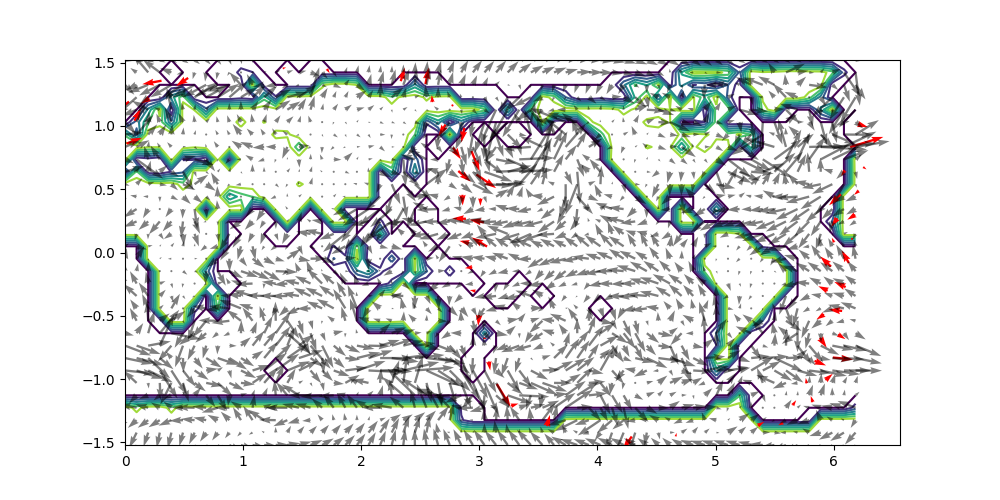
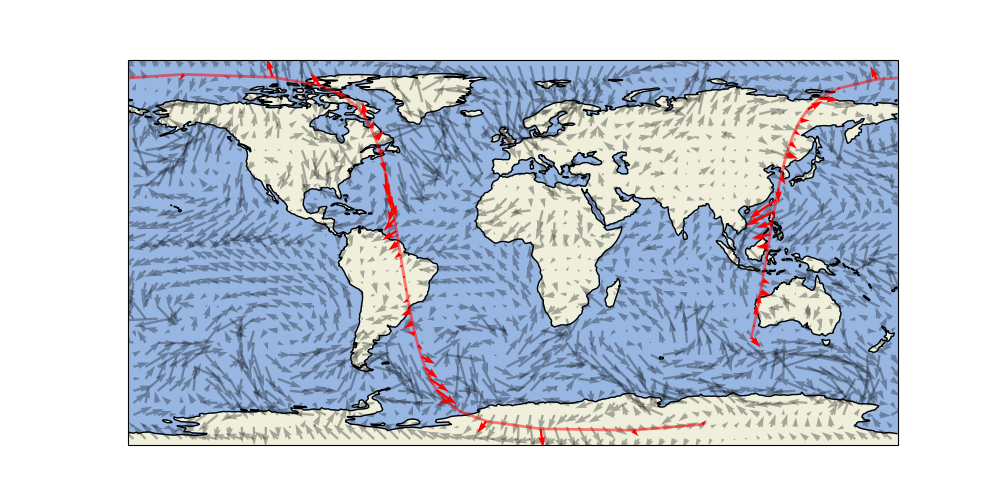
added era5

diff --git a/examples/wind_interpolation_euclidean_kernel.py b/examples/wind_interpolation_euclidean_kernel.py
@@ -1,5 +1,6 @@
 import xarray as xr
 import numpy as np
+from typing import List
 import jax
 import jax.numpy as jnp
 import jax.random as jr
@@ -15,6 +16,10 @@ from riemannianvectorgp.kernel.scaled import ScaledKernel
 from riemannianvectorgp.kernel.TFP import TFPKernel
 from skyfield.api import wgs84, load, EarthSatellite
 from scipy.interpolate import interp2d
+import cartopy
+import cartopy.crs as ccrs
+import xesmf as xe
+import copy
 
 class GlobalRNG:
     def __init__(self, seed: int = np.random.randint(2147483647)):
@@ -32,27 +37,37 @@ def _deg2rad(x: np.ndarray):
     return (np.pi/180)*x
 
 
+def _rad2deg(x: np.ndarray):
+    return (180/np.pi)*x
+
+
+def _jump_where(x):
+        for i in range(1,len(x)):
+            if np.abs(x[i-1] - x[i]) > 180:
+                return i
+
+
 def GetDataAlongSatelliteTrack(
     ds: xr.Dataset,
     satellite: EarthSatellite,
-    year: int = 2021,
-    month: int = 1,
-    day: int = 1,
-    hour: int = 0):
+    year: int,
+    month: int,
+    day: int,
+    hour: int) -> List[np.ndarray]:
     """
         Generate wind data along the trajectories of Aeolus (satellite)
         More information about the Aeolus satellite: https://www.n2yo.com/satellite/?s=43600 
     """
-    date = f'{year}-{month}-{day}'
-    lon = _deg2rad(ds.isel(time=0).longitude.values)
-    lat = _deg2rad(ds.isel(time=0).latitude.values)
+    date = f"{year}-{month}-{day}"
+    lon = _deg2rad(ds.isel(time=0).lon.values)
+    lat = _deg2rad(ds.isel(time=0).lat.values)
     u = ds.u100.sel(time=date).values
     v = ds.v100.sel(time=date).values
 
     time_span = ts.utc(year, month, day, hour, range(0, 60))
     geocentric = satellite.at(time_span)
     subpoint = wgs84.subpoint(geocentric)
-    lon_location = subpoint.longitude.radians + np.pi
+    lon_location = subpoint.longitude.radians
     lat_location = subpoint.latitude.radians
     u_interp = interp2d(lon, lat, u[hour], kind='linear')
     v_interp = interp2d(lon, lat, v[hour], kind='linear')
@@ -67,35 +82,54 @@ def GetDataAlongSatelliteTrack(
 
 
 if __name__ == '__main__':
+    rng = GlobalRNG()
+
+    year = 2019
+    month = 1
+    day = 1
+    hour = 0
+    min = 0
+    date = f"{year}-{month}-{day} {hour}:{min}"
+
     # Get Aeolus trajectory data from TLE set
     ts = load.timescale()
     line1 = '1 43600U 18066A   21112.99668353  .00040037  00000-0  16023-3 0  9999'
     line2 = '2 43600  96.7174 120.6934 0007334 114.6816 245.5221 15.86410481154456'
     aeolus = EarthSatellite(line1, line2, 'AEOLUS', ts)
 
-    rng = GlobalRNG()
+    # Load ERA5 data and regrid
+    resolution = 5.625
     ds = xr.open_mfdataset('../datasets/era5_dataset/*.nc')
-    lon = _deg2rad(ds.isel(time=0).longitude.values)
-    lat = _deg2rad(ds.isel(time=0).latitude.values)
+    grid_out = xr.Dataset(
+        {
+            'lat': (['lat'], np.arange(-90+resolution/2, 90, resolution)),
+            'lon': (['lon'], np.arange(-180+resolution/2, 180, resolution)),
+        }
+    )
+    ds = ds.rename({'latitude': 'lat', 'longitude': 'lon'})
+    regridder = xe.Regridder(ds, grid_out, 'bilinear', periodic=True)
+    ds = regridder(ds)
+    lon = ds.isel(time=0).lon
+    lat = ds.isel(time=0).lat
+    lon_size = lon.shape[0]
+    lat_size = lat.shape[0]
     mesh = np.meshgrid(lon, lat)
 
-    phi, theta = jnp.meshgrid(lat, lon)
-    phi = phi.flatten()[::20]
-    theta = theta.flatten()[::20]
-    lat_size = phi.shape[0]
-    lon_size = theta.shape[0]
+    phi, theta = jnp.meshgrid(_deg2rad(lat), _deg2rad(lon))
+    phi = phi.flatten()
+    theta = theta.flatten()
     m = jnp.stack([phi, theta], axis=-1)
     
     # Get inputs and outputs
-    m_cond, v_cond = GetDataAlongSatelliteTrack(ds, aeolus)
+    m_cond, v_cond = GetDataAlongSatelliteTrack(ds, aeolus, year, month, day, hour)
     m_cond, v_cond = jnp.asarray(m_cond), jnp.asarray(v_cond)
-    noises_cond = jnp.ones_like(v_cond) * 0.01
+    noises_cond = jnp.ones_like(v_cond) * 1.7
 
     # Set up kernel
     ev_kernel = ScaledKernel(TFPKernel(tfk.ExponentiatedQuadratic, 2, 2))
     ev_kernel_params = ev_kernel.init_params(next(rng))
     sub_kernel_params = ev_kernel_params.sub_kernel_params
-    sub_kernel_params = sub_kernel_params._replace(log_length_scales=jnp.log(0.5))
+    sub_kernel_params = sub_kernel_params._replace(log_length_scales=jnp.log(0.2))
     ev_kernel_params = ev_kernel_params._replace(sub_kernel_params=sub_kernel_params)
     ev_kernel_params = ev_kernel_params._replace(
         log_amplitude=-jnp.log(ev_kernel.matrix(ev_kernel_params, m, m)[0, 0, 0, 0])
@@ -112,36 +146,45 @@ if __name__ == '__main__':
     mean, K = ev_gp(ev_gp_params, ev_gp_state, m)
 
     fig = plt.figure(figsize=(10, 5))
+    ax = plt.axes(projection=ccrs.PlateCarree())
+    ax.add_feature(cartopy.feature.LAND, zorder=0)
+    ax.coastlines()
 
     plt.quiver(
-        theta,
-        phi,
+        _rad2deg(theta),
+        _rad2deg(phi),
         mean[:, 0],
         mean[:, 1],
         color="blue",
         alpha=0.5,
         scale=scale,
         width=0.003,
-        headwidth=3,
-        zorder=4
+        headwidth=3
     )
 
     plt.quiver(
-        m_cond[:, 1],
-        m_cond[:, 0],
+        _rad2deg(m_cond[:, 1]),
+        _rad2deg(m_cond[:, 0]),
         v_cond[:, 0],
         v_cond[:, 1],
         color="red",
         scale=scale,
         width=0.003,
-        headwidth=3,
-        zorder=5,
+        headwidth=3
     )
 
-    constants = xr.open_dataset("../datasets/constants/constants.nc")
-    lsm = constants.lsm.values
+    # Plot satellite trajectories
+    idx = _jump_where(_rad2deg(m_cond[:, 1]))
+    x1 = copy.deepcopy(_rad2deg(m_cond[:idx+1, 1]))
+    y1 = _rad2deg(m_cond[:idx+1, 0])
+    x1[idx] = x1[idx]-360
 
-    plt.contour(*mesh, lsm, zorder=1)
+    x2 = copy.deepcopy(_rad2deg(m_cond[idx-1:, 1]))
+    y2 = _rad2deg(m_cond[idx-1:, 0])
+    x2[0] = x2[0] + 360
+
+    plt.plot(x1, y1, c='r', alpha=0.5, linewidth=2)
+    plt.plot(x2, y2, c='r', alpha=0.5, linewidth=2)
 
     plt.title("posterior mean")
     plt.savefig("figs/wind_interpolation_gp_euclidean_mean.png")
@@ -151,34 +194,46 @@ if __name__ == '__main__':
     std_norm = jnp.sqrt(var_norm).transpose()
 
     fig = plt.figure(figsize=(10,5))
+    ax = plt.axes(projection=ccrs.PlateCarree())
+    ax.coastlines()
     plt.contourf(*mesh, std_norm, levels=30, zorder=1)
-    plt.contour(*mesh, lsm, zorder=2)
+
+    plt.plot(x1, y1, c='r', alpha=0.5, linewidth=2)
+    plt.plot(x2, y2, c='r', alpha=0.5, linewidth=2)
 
     plt.title("posterior std")
     plt.savefig("figs/wind_interpolation_gp_euclidean_std.png")
 
     # Plot ground truth
-    u_gt = ds.u100.sel(time='2021-01-01').values[0]
-    v_gt = ds.v100.sel(time='2021-01-01').values[0]
+    u_gt = ds.u100.sel(time=date).values
+    v_gt = ds.v100.sel(time=date).values
+    
     plt.figure(figsize=(10, 5))
-    plt.contour(*mesh, lsm, zorder=1)
+    ax = plt.axes(projection=ccrs.PlateCarree())
+    ax.add_feature(cartopy.feature.LAND, zorder=0)
+    ax.coastlines()
+    ax.add_feature(cartopy.feature.OCEAN, zorder=0)
 
     plt.quiver(*mesh, u_gt, v_gt,
-               alpha=0.5,
-               zorder=2,
+               alpha=0.3,
+               zorder=1,
                color='black',
                scale=350,
                width=0.003,
                headwidth=3)
 
-    plt.quiver(m_cond[:, 1],
-               m_cond[:, 0],
+    plt.quiver(_rad2deg(m_cond[:, 1]),
+               _rad2deg(m_cond[:, 0]),
                v_cond[:, 0],
                v_cond[:, 1],
+               zorder=2,
                color='red',
                scale=350,
                width=0.003,
                headwidth=3)
+
+    plt.plot(x1, y1, c='r', alpha=0.5, linewidth=2)
+    plt.plot(x2, y2, c='r', alpha=0.5, linewidth=2)
 
     plt.savefig("figs/ground_truth.png")
 

diff --git a/datasets/era5.py b/datasets/era5.py
@@ -1,0 +1,139 @@
+import cdsapi
+import xarray as xr
+import pandas as pd
+from urllib.request import urlopen
+import os
+
+def get_era5(dataset_name='reanalysis-era5-single-levels', 
+             var=None, 
+             dates=None,
+             times=None,
+             pressure_level=None,
+             grid=[1.0, 1,0],
+             area=[90, -180, -90, 180],
+             download_flag = False,
+             download_file='./output.nc'
+            ):
+    ''' 
+    Code adapted from https://towardsdatascience.com/read-era5-directly-into-memory-with-python-511a2740bba0
+
+    Get ERA5 reanalysis output from the web
+    this script grabs ERA5 variables from the web and stores them 
+    in an xarray dataset. 
+    
+    The ERA5 CDS API must be installed on the local machine.
+    See section 4 here: https://cds.climate.copernicus.eu/api-how-to
+    
+    Parameters
+    ----------                  
+    dataset_name: str, default 'reanalysis-era5-single-levels'
+        name of dataset to use. Options include:
+        * 'reanalysis-era5-single-levels'
+        * 'reanalysis-era5-single-levels-monthly-means'
+        * 'reanalysis-era5-pressure-levels'
+        * 'reanalysis-era5-pressure-levels-monthly-means'
+        * 'reanalysis-era5-land'
+        * 'reanalysis-era5-land-monthly-means'
+        
+    dates: list of strings or datetime64, default None
+        example ['1980-01-01', '2020-12-31']
+    times: list of strings of form 'HH:MM', default None
+        example ['00:00', '01:00']
+    var: str, default None
+        name of variable to download
+        example '2m_temperature'
+    pressure_level: str, default None
+        pressure level to grab data on
+    grid: list, deafult [1.0, 1.0]
+        spatial lat, lon grid resolution in deg
+    area: list, default [90,-180,-90, 180]
+        area extent download [N, W, S, E]
+    download_flag = True or False, default False
+        flag to download data or not
+    download_file= str, default './output.nc'
+        path to where data should be downloaed to.
+        data only downloaded if download_flag is True
+    Returns
+    -------
+    ds: xarrayDataSet
+        all the data will be in an xarray dataset
+        
+    Example
+    -------
+    ds = get_era5(dataset_name='reanalysis-era5-single-levels-monthly-means', 
+                 var='2m_temperature', 
+                 dates=['2021-02-01'],
+                 grid=[0.25, 0.25])
+        
+    Notes
+    -------    
+    # cdsapi code is here
+    https://github.com/ecmwf/cdsapi/tree/master/cdsapi
+    # information on api is here
+    https://confluence.ecmwf.int/display/CKB/Climate+Data+Store+%28CDS%29+API+Keywords
+    # era5 dataset information is here
+    https://confluence.ecmwf.int/display/CKB/The+family+of+ERA5+datasets
+    '''
+    
+    # test if acceptable pressure level
+    acceptable_pressures = [1, 2, 3, 5, 7, 10, 20, 30, 50, 70, range(100, 1000, 25)]
+    if pressure_level not in [str(lev) for lev in acceptable_pressures]:
+        print(f"!! Pressure level must be in this list: {acceptable_pressures}")
+    
+    # start the cdsapi client
+    c = cdsapi.Client()
+
+    # parameters
+    params = dict(
+        format = "netcdf",
+        product_type = "reanalysis",
+        variable = var,
+        grid = grid,
+        area = area,
+        date = dates,
+        time = times
+        )   
+        
+    # if pressure surface
+    if dataset_name in ["reanalysis-era5-pressure-levels-monthly-means",
+                        "reanalysis-era5-pressure-levels"]:
+        params["pressure_level"] = pressure_level
+    
+    # product_type not needed for era5_land
+    if dataset_name in ["reanalysis-era5-land"]:
+        _ = params.pop("product_type")
+        
+    # file object
+    fl = c.retrieve(dataset_name, params) 
+    
+    # download the file 
+    if download_flag:
+        fl.download(f"{download_file}")
+    
+    # load into memory and return xarray dataset
+    with urlopen(fl.location) as f:
+        return xr.open_dataset(f.read())
+
+
+if __name__ == '__main__':
+    """Download data for wind speed at 100m at given dates and times
+    """
+    dates = ['2019-01-01']
+    times = ['00:00']
+
+    os.mkdir('era5_dataset') if not os.path.exists('era5_dataset') else None
+
+    get_era5(dataset_name='reanalysis-era5-single-levels', 
+             var='100m_u_component_of_wind', 
+             dates=dates,
+             times=times,
+             download_flag=True,
+             download_file='era5_dataset/100m_u_component_of_wind_2019_01_01.nc')
+
+    get_era5(dataset_name='reanalysis-era5-single-levels', 
+             var='100m_v_component_of_wind', 
+             dates=['2019-01-01'],
+             times=['00:00'],
+             download_flag=True,
+             download_file='era5_dataset/100m_v_component_of_wind_2019_01_01.nc')
+    
